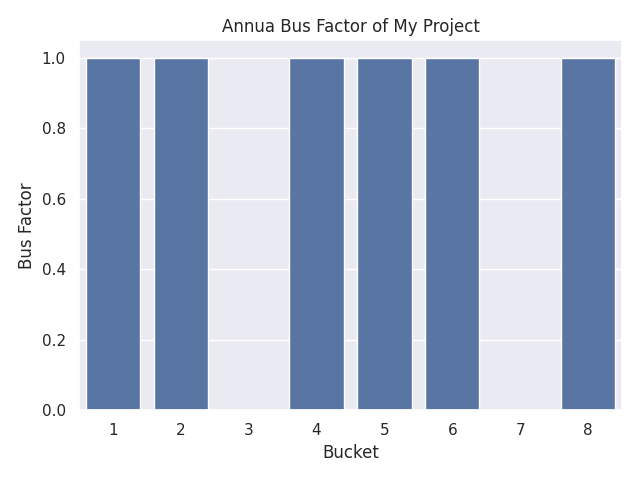
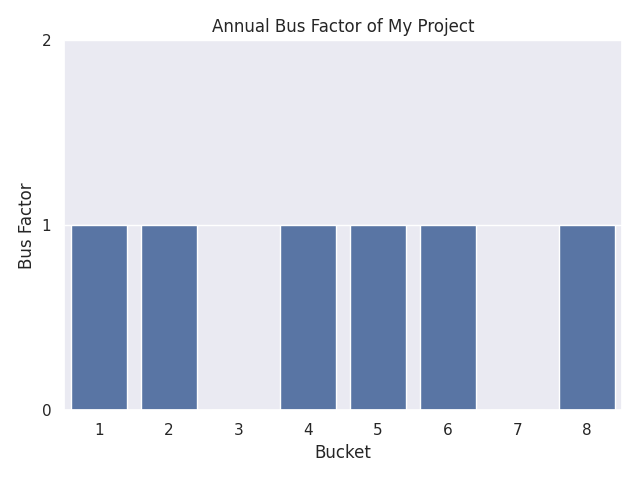
Got barplots working

diff --git a/plot-data/plot-prime.py b/plot-data/plot-prime.py
@@ -3,6 +3,8 @@ import sqlite3
 import matplotlib.pyplot as plt
 import pandas as pd
 import seaborn as sns
+from matplotlib.ticker import MultipleLocator
+import math
 
 # Path to .db file
 sql_file_path = "prime.db"
@@ -13,16 +15,38 @@ def plot_table(tableName,x,y):
     conn = sqlite3.Connection(database=sql_file_path)
     df = pd.read_sql_query("SELECT * FROM "+tableName, con=conn)
     conn.close()
-    
-    print(df)
 
     # plot stats
     sns.set_theme()
     graph = sns.barplot(x=x, y=y, data=df)
+
     graph.set_xlabel("Bucket")
     graph.set_ylabel("Bus Factor")
-    plt.title("Annua Bus Factor of "+projectName)
+    plt.title("Annual Bus Factor of "+projectName)
+
+    spacing = math.floor(math.log(df[x].max()))
+    print (tableName+str(spacing))
+    print ("xmax: "+str(df[x].max()))
+
+    for ind, label in enumerate(graph.get_xticklabels()):
+        if ind % (10**(spacing-2)) == 10**(spacing-2)-1:
+            label.set_visible(True)
+        else:
+            label.set_visible(False)
+
+    #Set x and y axes
+    max_value = df[y].max()
+    plt.ylim(0, 2 * max_value)
+    graph.yaxis.set_major_locator(MultipleLocator(1))
+
     plt.tight_layout()
     plt.savefig(tableName+".png")
 
-plot_table("daily_bus_factor","bucket","bus_factor")
+    plt.close()
+
+
+plot_table("annual_bus_factor","bucket","bus_factor")
+plot_table("six_month_bus_factor","bucket","bus_factor")
+plot_table("three_month_bus_factor","bucket","bus_factor")
+plot_table("two_month_bus_factor","bucket","bus_factor")
+plot_table("monthly_bus_factor","bucket","bus_factor")
